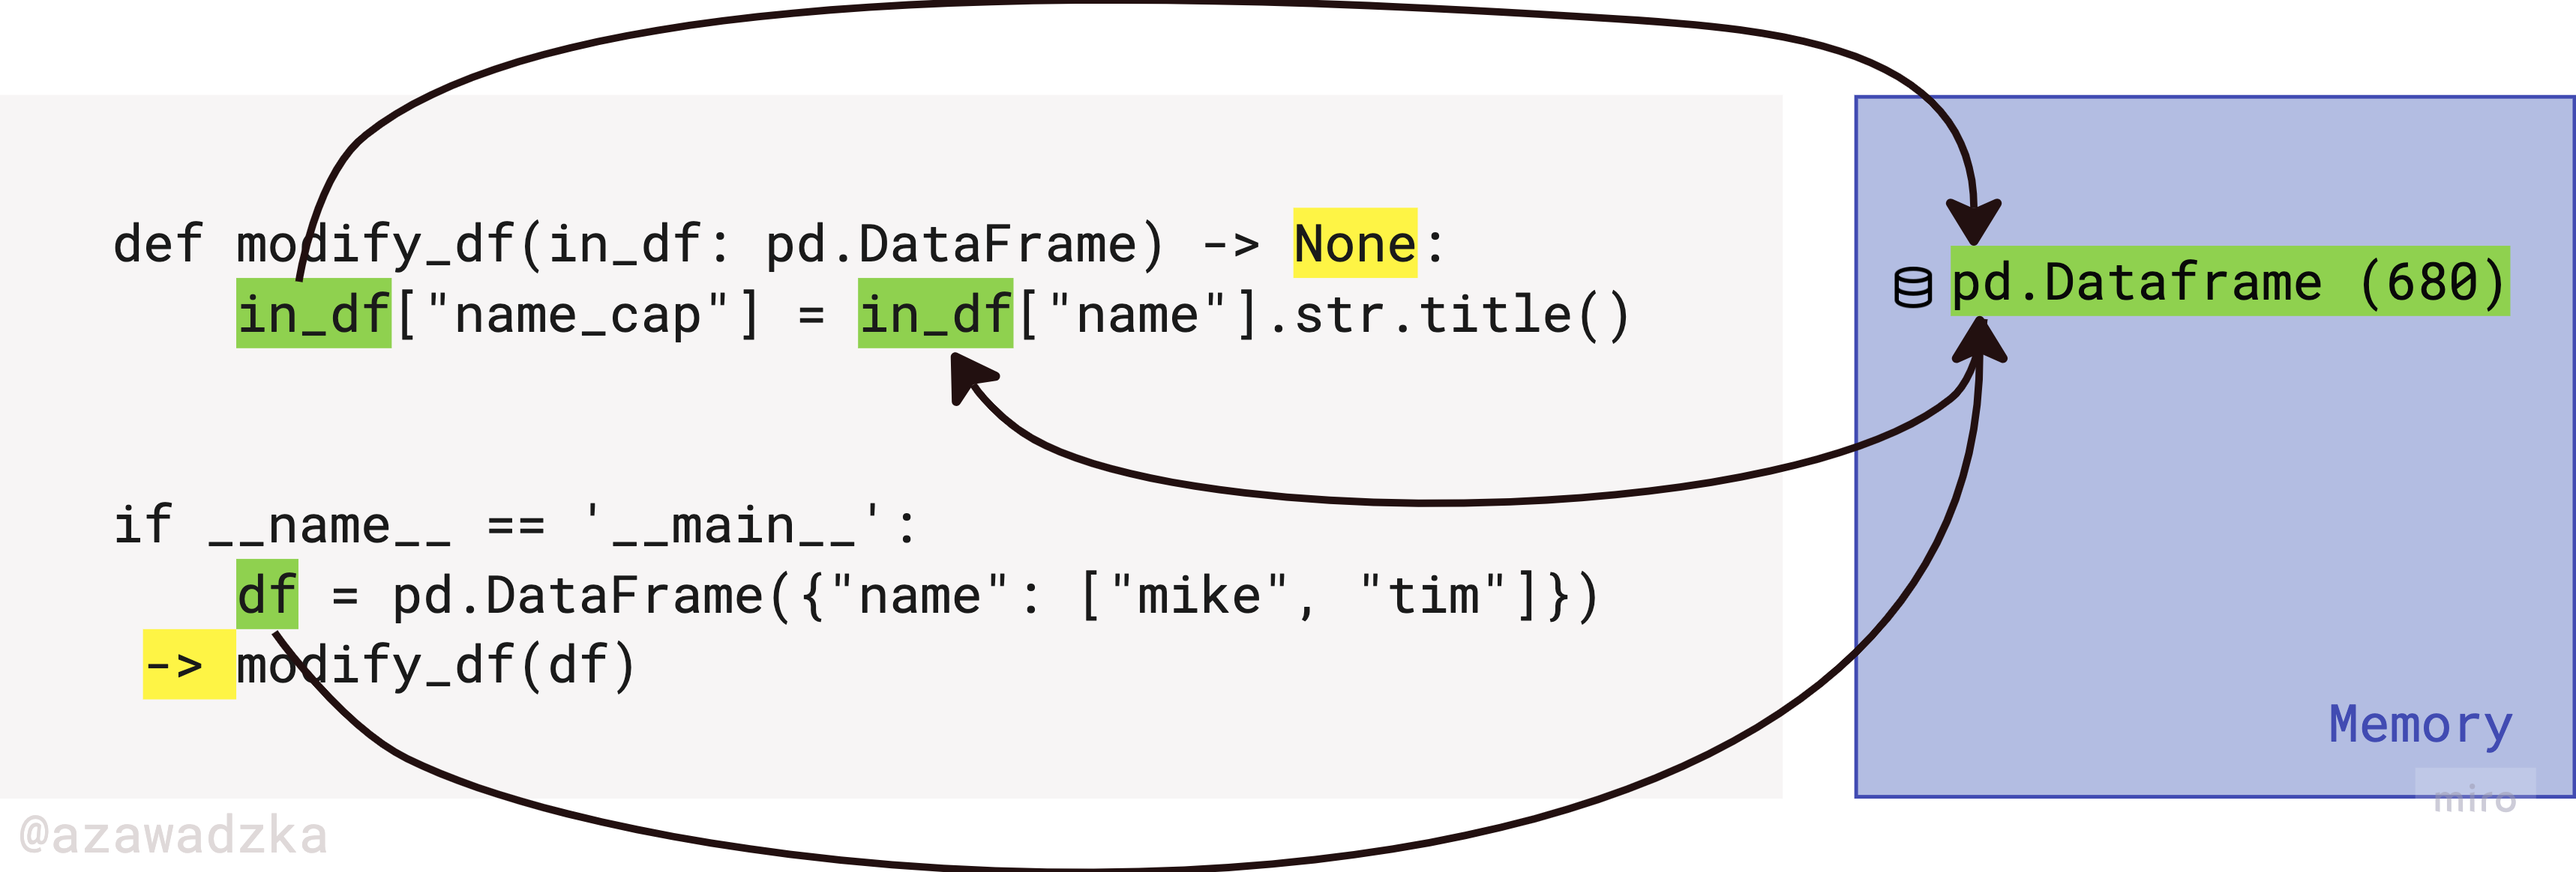
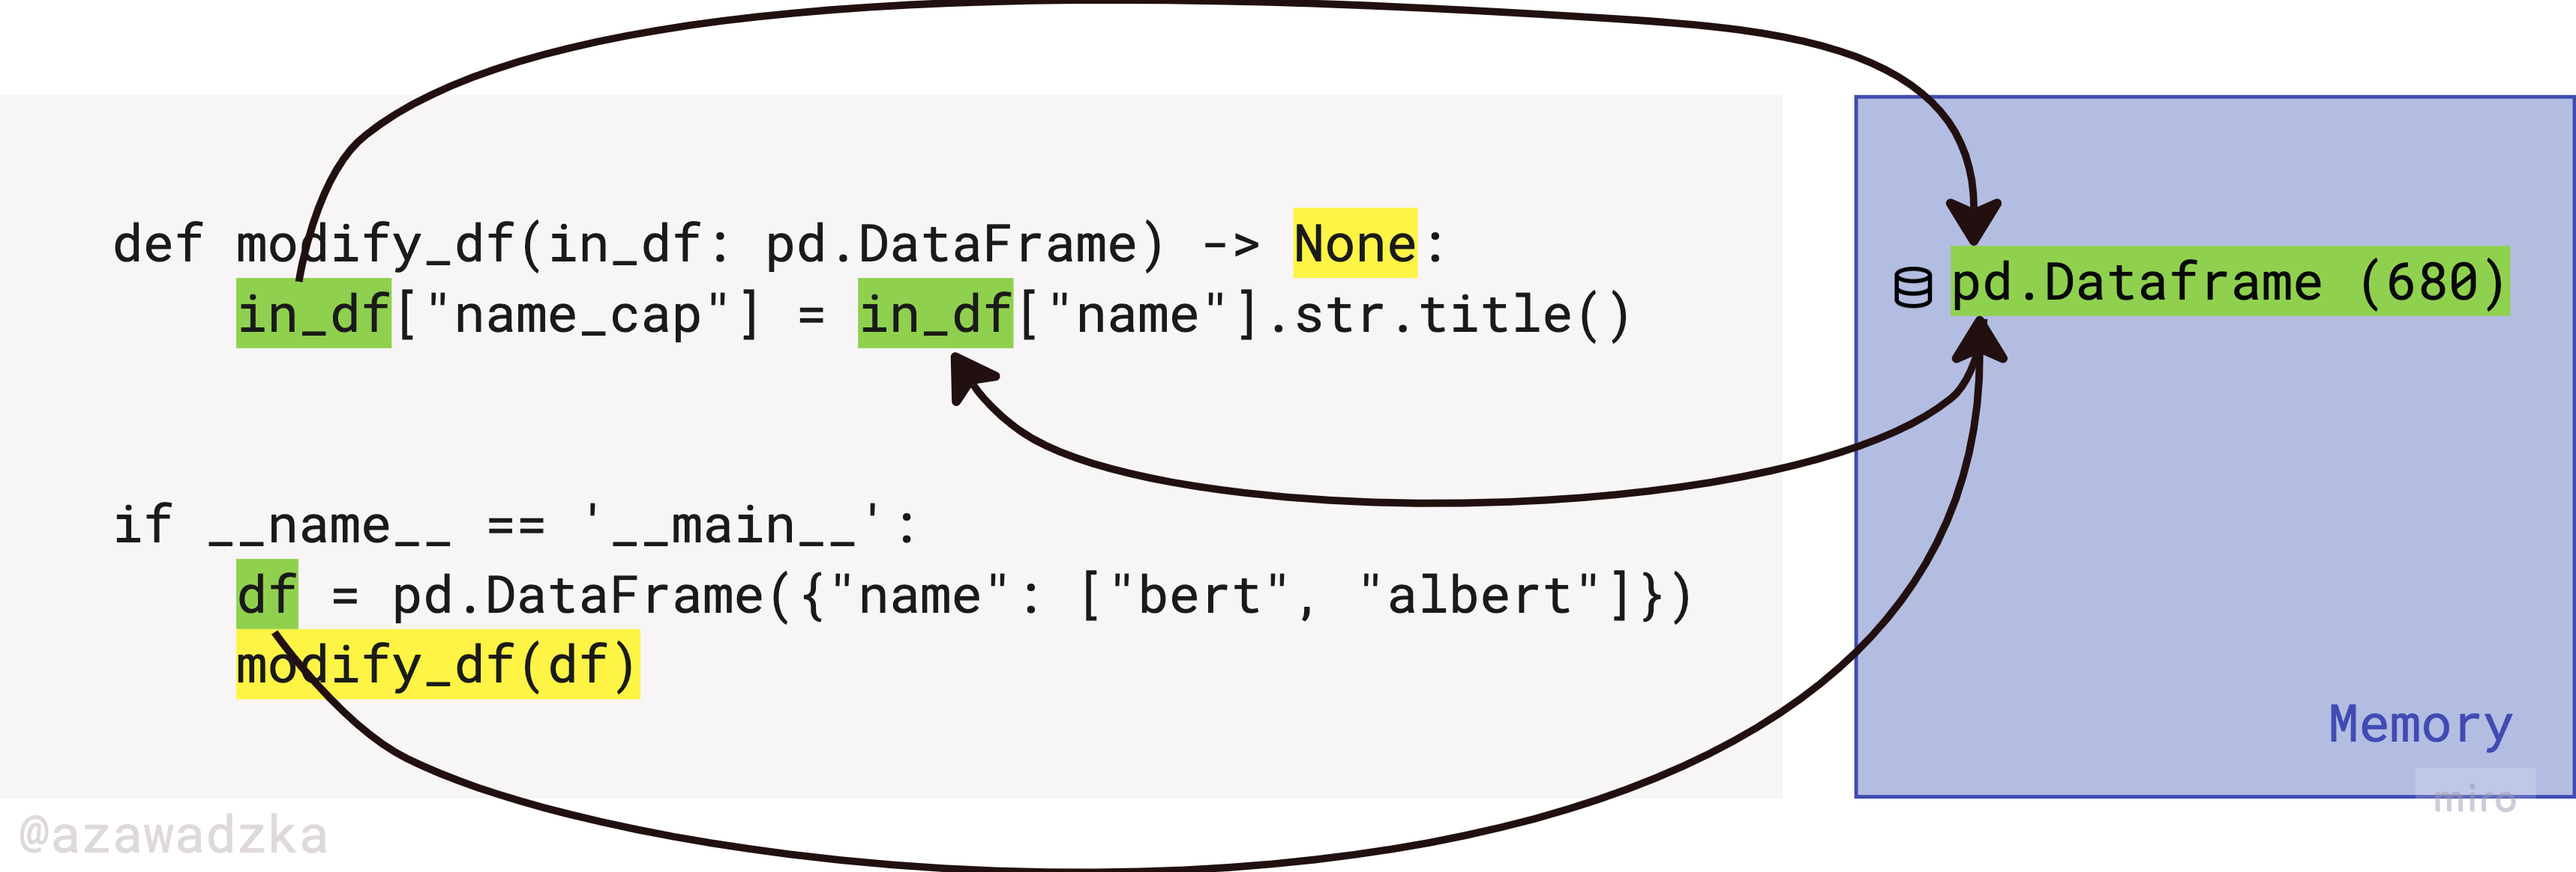
Medium pandas update

Changed region(s): [[0.0311, 0.7113, 0.2492, 0.8041], [0.5295, 0.6495, 0.6541, 0.7113], [0.4361, 0.6495, 0.4984, 0.7113]]

diff --git a/medium/pandas_testing/aggr.py b/medium/pandas_testing/aggr.py
@@ -52,6 +52,11 @@ if __name__ == '__main__':
     # series[0] = "roberta"   # <-- this doesn't change the original DataFrame
     # print(df)
 
+    df = pd.DataFrame({"name": ["bert", "albert"]})
+    series = df["name"].str.title() # not a copy at all
+    series[0] = "roberta"   # <-- this doesn't change the original DataFrame
+    print(df)
+
     # Group similar operations
     # df = pd.DataFrame({"name": ["bert", "albert"]})
     # df = pd.concat([
@@ -61,9 +66,9 @@ if __name__ == '__main__':
     # ], axis=1)
 
     # Group similar operations
-    df = pd.DataFrame({"name": ["bert", "albert"]})
-    df["name_len"] = create_name_len_col(df.name)
-    print(df)
+    # df = pd.DataFrame({"name": ["bert", "albert"]})
+    # df["name_len"] = create_name_len_col(df.name)
+    # print(df)
 
     ##
     # df = pd.DataFrame({"name": ["bert", "albert"]})
